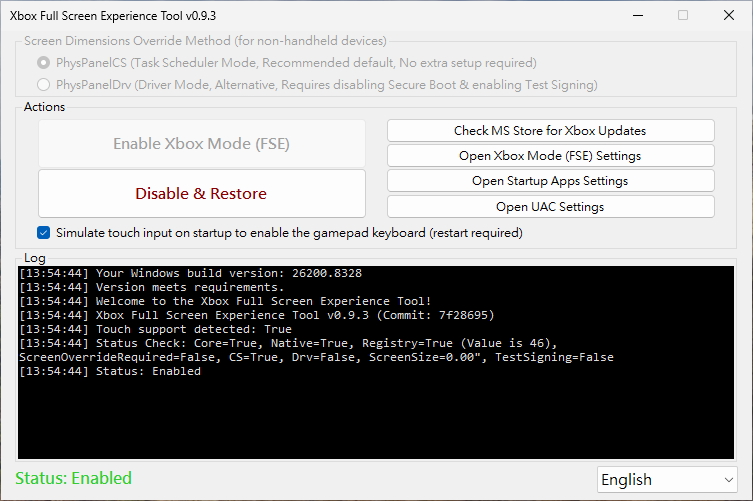
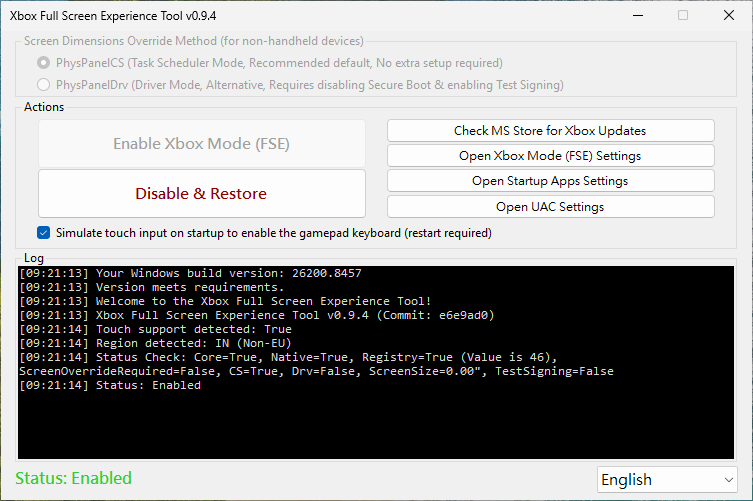
chore: Bump version to 0.9.4 and update project assets
- Bumped main application (`XboxFullScreenExperienceTool`) and installer (`Setup.vdproj`) versions from `0.9.3` to `0.9.4`.
- Updated Installer `ProductCode` and `PackageCode` to ensure seamless upgrade behavior for existing installations.
- Bumped `PhysPanelLib` and `PhysPanelCPP` (`resource.rc`) versions from `0.0.18` to `0.0.19`.
- Added `v0.9.4` to the version selection dropdown in the GitHub issue template.
- Refreshed the English and Traditional Chinese UI screenshots (`demo.png`, `demo.zh-TW.png`) to reflect the latest interface updates.

diff --git a/README.md b/README.md
@@ -126,11 +126,12 @@ This process consists of preparing your system with the tool, updating apps, and
 
 ### 4. Enter Xbox Mode (FSE)
 
-Once activated, you can enter Xbox Mode (FSE) in three ways:
+Once activated, you can enter Xbox Mode (FSE) in two ways:
 
-1.  **Manually** – Open Task View and click **Xbox mode (FSE)**.
+1.  **Manually** – via one of these entries:
+    - Open Task View and click **Xbox mode (FSE)**.
+    - Open the Xbox app and click the **Xbox mode (FSE)** entry.
 2.  **On startup** – Boots directly into Xbox Mode (FSE) (requires the startup setting in step 3 above to be enabled).
-3.  **From the Xbox App** – Open the Xbox app and click the **Xbox mode (FSE)** entry.
 
 ### **How to Revert**
 

diff --git a/README.zh-TW.md b/README.zh-TW.md
@@ -125,11 +125,12 @@
 
 ### 4. 進入 Xbox 模式 (FSE)
 
-啟用後，您可以透過以下三種方式進入 Xbox 模式 (FSE)：
+啟用後，您可以透過以下兩種方式進入 Xbox 模式 (FSE)：
 
-1.  **手動進入** – 開啟工作檢視，點選 **Xbox 模式 (FSE)**。
+1.  **手動進入** – 由下列任一入口進入：
+    - 開啟工作檢視，點選 **Xbox 模式 (FSE)**。
+    - 開啟 Xbox 應用程式，點選 **Xbox 模式 (FSE)** 入口。
 2.  **開機進入** – 開機直接進入 Xbox 模式 (FSE)（需先啟用上方步驟 3 中的開機啟動設定）。
-3.  **從 Xbox App 進入** – 開啟 Xbox 應用程式，點選 **Xbox 模式 (FSE)** 入口。
 
 ### **如何還原**
 
